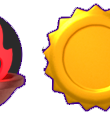
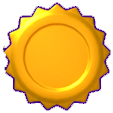
Rank badges: the high ranks were cut wrong, and late arrivals had none
The MASTER, GRAND MASTER and SUPREME badges were sliced out of the atlas
at the wrong x: each carried a sliver of the previous emblem and its own
cut short. The lower ranks were fine, which is why STONE looked right
and GRAND MASTER did not. Re-cut, and since the art has three different
shapes, one table of ratios now sizes them everywhere instead of
stretching each into a square. The floating label is smaller too.

And a player who arrived after you never got a badge. That code hung off
room callbacks, chained behind another module's hooks on the same
properties, and could miss a player twice over; it also attached to an
avatar the explorer might not have yet, which never recovers. It
reconciles against the room state now, and retries each badge once.

diff --git a/scene/src/components/avatar-rank.ts b/scene/src/components/avatar-rank.ts
@@ -27,6 +27,8 @@ import { Color4, Vector3 } from '@dcl/sdk/math'
 
 import MESSAGE from '../../../server/rooms/mesages'
 import { globalStore } from '../services/globalStore/globalStore'
+// One table of badge shapes for the UI and for this, rather than two copies.
+import { badgeAspect } from '../ui/ui2'
 // @ts-ignore - common/* has @ts-nocheck
 import { getCatFromTier, getTierFromSub } from '../../../common/utils'
 // @ts-ignore - common/* has @ts-nocheck
@@ -34,7 +36,7 @@ import { TIER_COLORS } from '../../../common/constants'
 // @ts-ignore - common/* has @ts-nocheck
 import { seasonTierDefinitions } from '../../../common/season-tier-definitions'
 
-type Shown = { address: string; root: Entity; badge: Entity; label: Entity; tier: number }
+type Shown = { address: string; root: Entity; badge: Entity; label: Entity; tier: number; at: number; reattached: boolean }
 
 const shown: Record<string, Shown> = {}
 let localAddress = ''
@@ -42,10 +44,15 @@ let hidden = false
 
 // Design, in metres above the name tag. The badge art is 103x106, so a square
 // plane is close enough; the name goes under it, between badge and name tag.
-const BADGE_Y = 0.46
-const BADGE_SIZE = 0.26
-const LABEL_Y = 0.26
-const LABEL_FONT = 1.6
+const BADGE_Y = 0.44
+// The HEIGHT of the badge: its width comes from the art's own ratio
+// (ui2.ts:badgeAspect), because the files are not all the same shape and a
+// square plane stretched the high ranks.
+const BADGE_HEIGHT = 0.26
+const LABEL_Y = 0.22
+// 1.6 made a long name like "GRAND MASTER 5" wider than the avatar (user,
+// 2026-11-04).
+const LABEL_FONT = 1.1
 
 const MAX_TIER = 49
 
@@ -76,7 +83,7 @@ function createBadge(address: string, tier: number): { root: Entity; badge: Enti
   Transform.create(badge, {
     parent: root,
     position: Vector3.create(0, BADGE_Y, 0),
-    scale: Vector3.create(BADGE_SIZE, BADGE_SIZE, BADGE_SIZE)
+    scale: Vector3.create(BADGE_HEIGHT * badgeAspect(tier), BADGE_HEIGHT, 1)
   })
   MeshRenderer.setPlane(badge)
   // Unlit, with the art's own alpha cut out: a PBR material would take the
@@ -117,16 +124,9 @@ function removeBadge(address: string) {
 
 function handleNewPlayer(address: string, tier: number) {
   if (!address || shown[address] || !isDrawable(tier)) return
-  shown[address] = { address, tier, ...createBadge(address, tier) }
+  shown[address] = { address, tier, at: Date.now(), reattached: false, ...createBadge(address, tier) }
 }
 
-function handlePlayerTierChange(address: string, tier: number) {
-  const found = shown[address]
-  if (!found) return handleNewPlayer(address, tier)
-  if (found.tier === tier || !isDrawable(tier)) return
-  removeBadge(address)
-  handleNewPlayer(address, tier)
-}
 
 export function clearAvatarRanks() {
   Object.keys(shown).forEach(removeBadge)
@@ -163,44 +163,68 @@ function ownTierSystem() {
   }
 }
 
+// A new player's badge never appeared (user, 2026-11-04). The old wiring hung
+// off colyseus's onAdd / onChange, chained behind attached-golfclub.ts's own
+// hooks, and it had two ways to miss somebody: a callback that did not reach
+// us, and a player whose `tier` had not arrived yet when their row did. It
+// also created the AvatarAttach the instant the room announced them, which
+// can be before the explorer has their avatar, and an attach that binds to
+// nothing never recovers.
+//
+// So no callbacks: a system reconciles what is drawn against what the room
+// says, which cannot miss an event because it does not listen for any, and
+// re-creates each badge once a few seconds in, which fixes an attach that
+// bound too early.
+const RECONCILE_MS = 1500
+const REATTACH_AFTER_MS = 6000
+let reconciledAt = 0
+let realmFilter = ''
+
+function reconcileSystem() {
+  if (!currentRoom || Date.now() - reconciledAt < RECONCILE_MS) return
+  reconciledAt = Date.now()
+  const players = currentRoom.state?.players
+  if (!players) return
+
+  const wanted = new Map<string, number>()
+  players.forEach((player: any) => {
+    if (!player || player.realm !== realmFilter) return
+    const address = String(player.address || '').toLowerCase()
+    const tier = Number(player.tier)
+    if (address && isDrawable(tier)) wanted.set(address, tier)
+  })
+
+  for (const address of Object.keys(shown)) {
+    if (!wanted.has(address)) removeBadge(address)
+  }
+  for (const [address, tier] of wanted) {
+    const found = shown[address]
+    if (!found) {
+      handleNewPlayer(address, tier)
+    } else if (found.tier !== tier) {
+      removeBadge(address)
+      handleNewPlayer(address, tier)
+    } else if (!found.reattached && Date.now() - found.at > REATTACH_AFTER_MS) {
+      // one free retry, for an attach that may have bound before the avatar
+      // was there; after this the entry is left alone
+      removeBadge(address)
+      handleNewPlayer(address, tier)
+      const made = shown[address]
+      if (made) made.reattached = true
+    }
+  }
+}
+
 export function handleAvatarRanks(lobbyRoom: any, { realm, address }: { realm: string; address: string }) {
   localAddress = String(address || '').toLowerCase()
+  realmFilter = realm
   currentRoom = lobbyRoom
   lastSentTier = null
   if (!systemAdded) {
     systemAdded = true
     engine.addSystem(visibilitySystem)
     engine.addSystem(ownTierSystem)
+    engine.addSystem(reconcileSystem)
   }
-
-  // colyseus.js 0.14 holds ONE callback per hook (a plain property, not a
-  // listener list), and attached-golfclub.ts hooks the same three. So each one
-  // here calls whatever was there before: wire this module AFTER the clubs and
-  // both run. Anything else added later must chain in the same way.
-  const watch = (player: any) => {
-    if (!player || player.realm !== realm) return
-    const playerAddress = String(player.address || '').toLowerCase()
-    handleNewPlayer(playerAddress, Number(player.tier))
-    const previous = player.onChange
-    player.onChange = (changes: any[]) => {
-      if (previous) previous(changes)
-      changes.forEach((change) => {
-        if (change.field === 'tier') handlePlayerTierChange(playerAddress, Number(change.value))
-      })
-    }
-  }
-
-  const players = lobbyRoom.state?.players
-  if (!players) return
-  players.forEach((player: any) => watch(player))
-  const previousAdd = players.onAdd
-  players.onAdd = (player: any) => {
-    if (previousAdd) previousAdd(player)
-    watch(player)
-  }
-  const previousRemove = players.onRemove
-  players.onRemove = (player: any) => {
-    if (previousRemove) previousRemove(player)
-    if (player?.realm === realm) removeBadge(String(player.address || '').toLowerCase())
-  }
+  reconciledAt = 0
 }

diff --git a/scene/src/ui/ui2.tsx b/scene/src/ui/ui2.tsx
@@ -300,13 +300,35 @@ export const initialAvatar = (px: Px, fs: Px, name: string, size: number, index:
   </UiEntity>
 )
 
-// Season rank badge (images/season-badges/<tier>.png).
-export const rankBadge = (px: Px, tier: number, size: number, x?: number, y?: number) => (
-  <UiEntity
-    uiTransform={x === undefined ? { width: px(size), height: px(size), flexShrink: 0 } : at(px, x, y || 0, size, size)}
-    uiBackground={{ texture: { src: `images/season-badges/${tier}.png` }, textureMode: 'stretch' }}
-  />
-)
+// The rank badges are not all the same shape, and the scene cannot read a
+// PNG's size, so the ratios live here. Measured from the files themselves
+// (2026-11-04); re-measure if the art is ever re-cut from
+// images/season-badges.png. Stretching every one into a square is what made
+// GRAND MASTER look wrong next to STONE.
+export const badgeAspect = (tier: number): number => {
+  if (tier >= 45) return 114 / 112 // SUPREME
+  if (tier >= 40) return 113 / 113 // GRAND MASTER
+  if (tier >= 35) return 96 / 113 // MASTER
+  return 103 / 106 // WOOD through DIAMOND
+}
+
+// Season rank badge (images/season-badges/<tier>.png). `size` is the HEIGHT:
+// the width follows the badge's own ratio so every rank reads equally tall,
+// and an absolutely positioned one keeps the centre of the square box its
+// caller reserved, so no caller had to change.
+export const rankBadge = (px: Px, tier: number, size: number, x?: number, y?: number) => {
+  const w = size * badgeAspect(tier)
+  return (
+    <UiEntity
+      uiTransform={
+        x === undefined
+          ? { width: px(w), height: px(size), flexShrink: 0 }
+          : at(px, x + (size - w) / 2, y || 0, w, size)
+      }
+      uiBackground={{ texture: { src: `images/season-badges/${tier}.png` }, textureMode: 'stretch' }}
+    />
+  )
+}
 
 // The full-screen "next prize" strip: the wearable's thumbnail (the FT icon
 // once sold out), "NEXT PRIZE · <tier> · N pts to go" and its name.

diff --git a/scene/src/components/lobby/seasons/season-menu.ts b/scene/src/components/lobby/seasons/season-menu.ts
@@ -29,6 +29,10 @@ import { lobbyHudState } from '../../../ui/lobby-hud-state'
 import { isDialogPress, lobbyMenuState } from '../../../ui/lobby-menu-state'
 import { showMessage } from '../server-notification'
 import { canStartGame, formatUtc, gameWindowState, guardGameStart, isEnergyFree, onGameWindowChange } from '../../../services/game-window'
+import { badgeAspect } from '../../../ui/ui2'
+
+// The height of the rank emblem on the 3D board; its width follows the art.
+const EMBLEM_SIZE = 0.7
 
 const SEASON_CATALOG: Record<string, { name: string }> = seasonCatalog as any
 
@@ -67,7 +71,7 @@ export const createSeasonMenu = async (
   // wrong.
   const emblem = createImageButton(entity, {
     position: Vector3.create(0, 2.2, -0.05),
-    scale: Vector3.create(0.7, 0.7, 0.7),
+    scale: Vector3.create(EMBLEM_SIZE, EMBLEM_SIZE, 1),
     rotation: Quaternion.Identity(),
     imageSrc: 'images/season-badges/0.png',
     hoverText: 'This is your current rank'
@@ -286,6 +290,13 @@ export const createSeasonMenu = async (
 
     emblem.show()
     emblem.setImage(`images/season-badges/${tier || 0}.png`)
+    // The badges are not all square (ui2.ts:badgeAspect), so the plane takes
+    // the shape of the one it is showing. It has to happen here and not only
+    // where the emblem is created, because the board outlives a rank-up.
+    const emblemTransform = Transform.getMutableOrNull(emblem.getEntity())
+    if (emblemTransform) {
+      emblemTransform.scale = Vector3.create(EMBLEM_SIZE * badgeAspect(tier || 0), EMBLEM_SIZE, 1)
+    }
 
     // Outside the monthly window the board only says when it opens: no badge
     // (it sat on top of the text) and no buttons.

diff --git a/.claude/CLAUDE.md b/.claude/CLAUDE.md
@@ -303,6 +303,10 @@ These no-op stubs let the rest of the code compile. Migrate them when needed:
 
 51. **Three things the spectator got wrong on its first run (user, 2026-11-04), and one of them was a wrong assumption of mine.** (a) **No balls**, because `Season-Room` NEVER published its ball: the solo room keeps it in its cannon world and sends the player SHOOT_FRAMES, so the synced `state.ball` sat at the tee from the Gameplay constructor and only appeared in one log line. `season-party-room` does publish (`onUpdateBall` writes `player.position`), which is why §6 #48's "the state already carries everything" held for a party and not for a solo run. Season-Room's `onUpdateBall` now writes `state.ball.position` the same way; the player's own client runs those frames locally and ignores it. (b) **The lobby stayed standing inside the course**: hiding only the building was not enough, so starting to watch now puts the scene in the same state a hole does (`globalStore.game.playing = true`, `hideLobbyHud()`, `destroyBuilding()` and `hideNpc()`), and `playing` goes false BEFORE the lobby is rebuilt or `createNpcTest` bails and the scientist never returns (§6 #23 d again). (c) **The game ending did not end it for the watcher**: colyseus auto-disposes only when the LAST client leaves, so a spectator kept a finished room alive for ever and was never dropped. `spectator.ts:disconnectIfOnlySpectators(room)` is called once the real player has gone, from both rooms, and the client also leaves on its own `OVER_GRACE_MS` after `state.finished`. ✓ Verified locally: the player leaves, the spectator is closed with code 1000 and the room drops off `/live-games`.
 
+52. **The rank badges of MASTER, GRAND MASTER and SUPREME were cut wrong from the atlas (user, 2026-11-04: "el icono de grandmaster 5 se ve mal... el otro de stone 3 parece bien").** The 50 files in `images/season-badges/` were sliced out of `images/season-badges.png` + `season-badges-alpha.png`, and the rects for tiers 35-49 had the wrong x: each held a sliver of the PREVIOUS emblem on its left and its own cut short on the right. Tiers 0-34 were right, which is exactly why STONE looked fine and GRAND MASTER did not. Re-cut with the content rect plus a 2 px margin: MASTER `846,902,96,113`, GRAND MASTER `953,903,113,113`, SUPREME `1072,902,114,112`. **The art also has three different shapes**, so `ui2.tsx:badgeAspect(tier)` holds the measured ratios (103/106 up to DIAMOND, then 96/113, 113/113, 114/112) and the scene cannot read a PNG's size, so re-measure that table if the art is ever re-cut again. `rankBadge` now treats its `size` as the HEIGHT and centres the badge in the square box its callers reserve, so no caller changed; `avatar-rank.ts` scales its plane the same way, and `season-menu.ts` reshapes the 3D board emblem on every `setImage` (not only at creation, since the board outlives a rank-up). The floating label also went from 1.6 to 1.1, because "GRAND MASTER 5" at 1.6 was wider than the avatar.
+
+53. **A player who arrives after you had no badge, so avatar-rank reconciles instead of listening (user, 2026-11-04).** The old wiring hung off colyseus's `onAdd` / `onChange`, chained behind `attached-golfclub.ts`'s hooks on the same three properties, and had two ways to miss somebody: a callback that never reached us, and a row whose `tier` had not arrived when the row did. It also created the `AvatarAttach` the instant the room announced the player, which can be before the explorer has their avatar, **and an attach that binds to nothing never recovers**. Now a system reconciles what is drawn against what the room says every `RECONCILE_MS`, which cannot miss an event because it listens for none, and re-creates each badge once at `REATTACH_AFTER_MS` to cover an attach that bound too early. **Rule: for anything driven by room state, prefer reconciling the state to subscribing to its changes** — it survives a missed callback, a late field and a second module hooking the same property.
+
 ---
 
 ## 6.5 Current state (last touched 2026-06-01)
